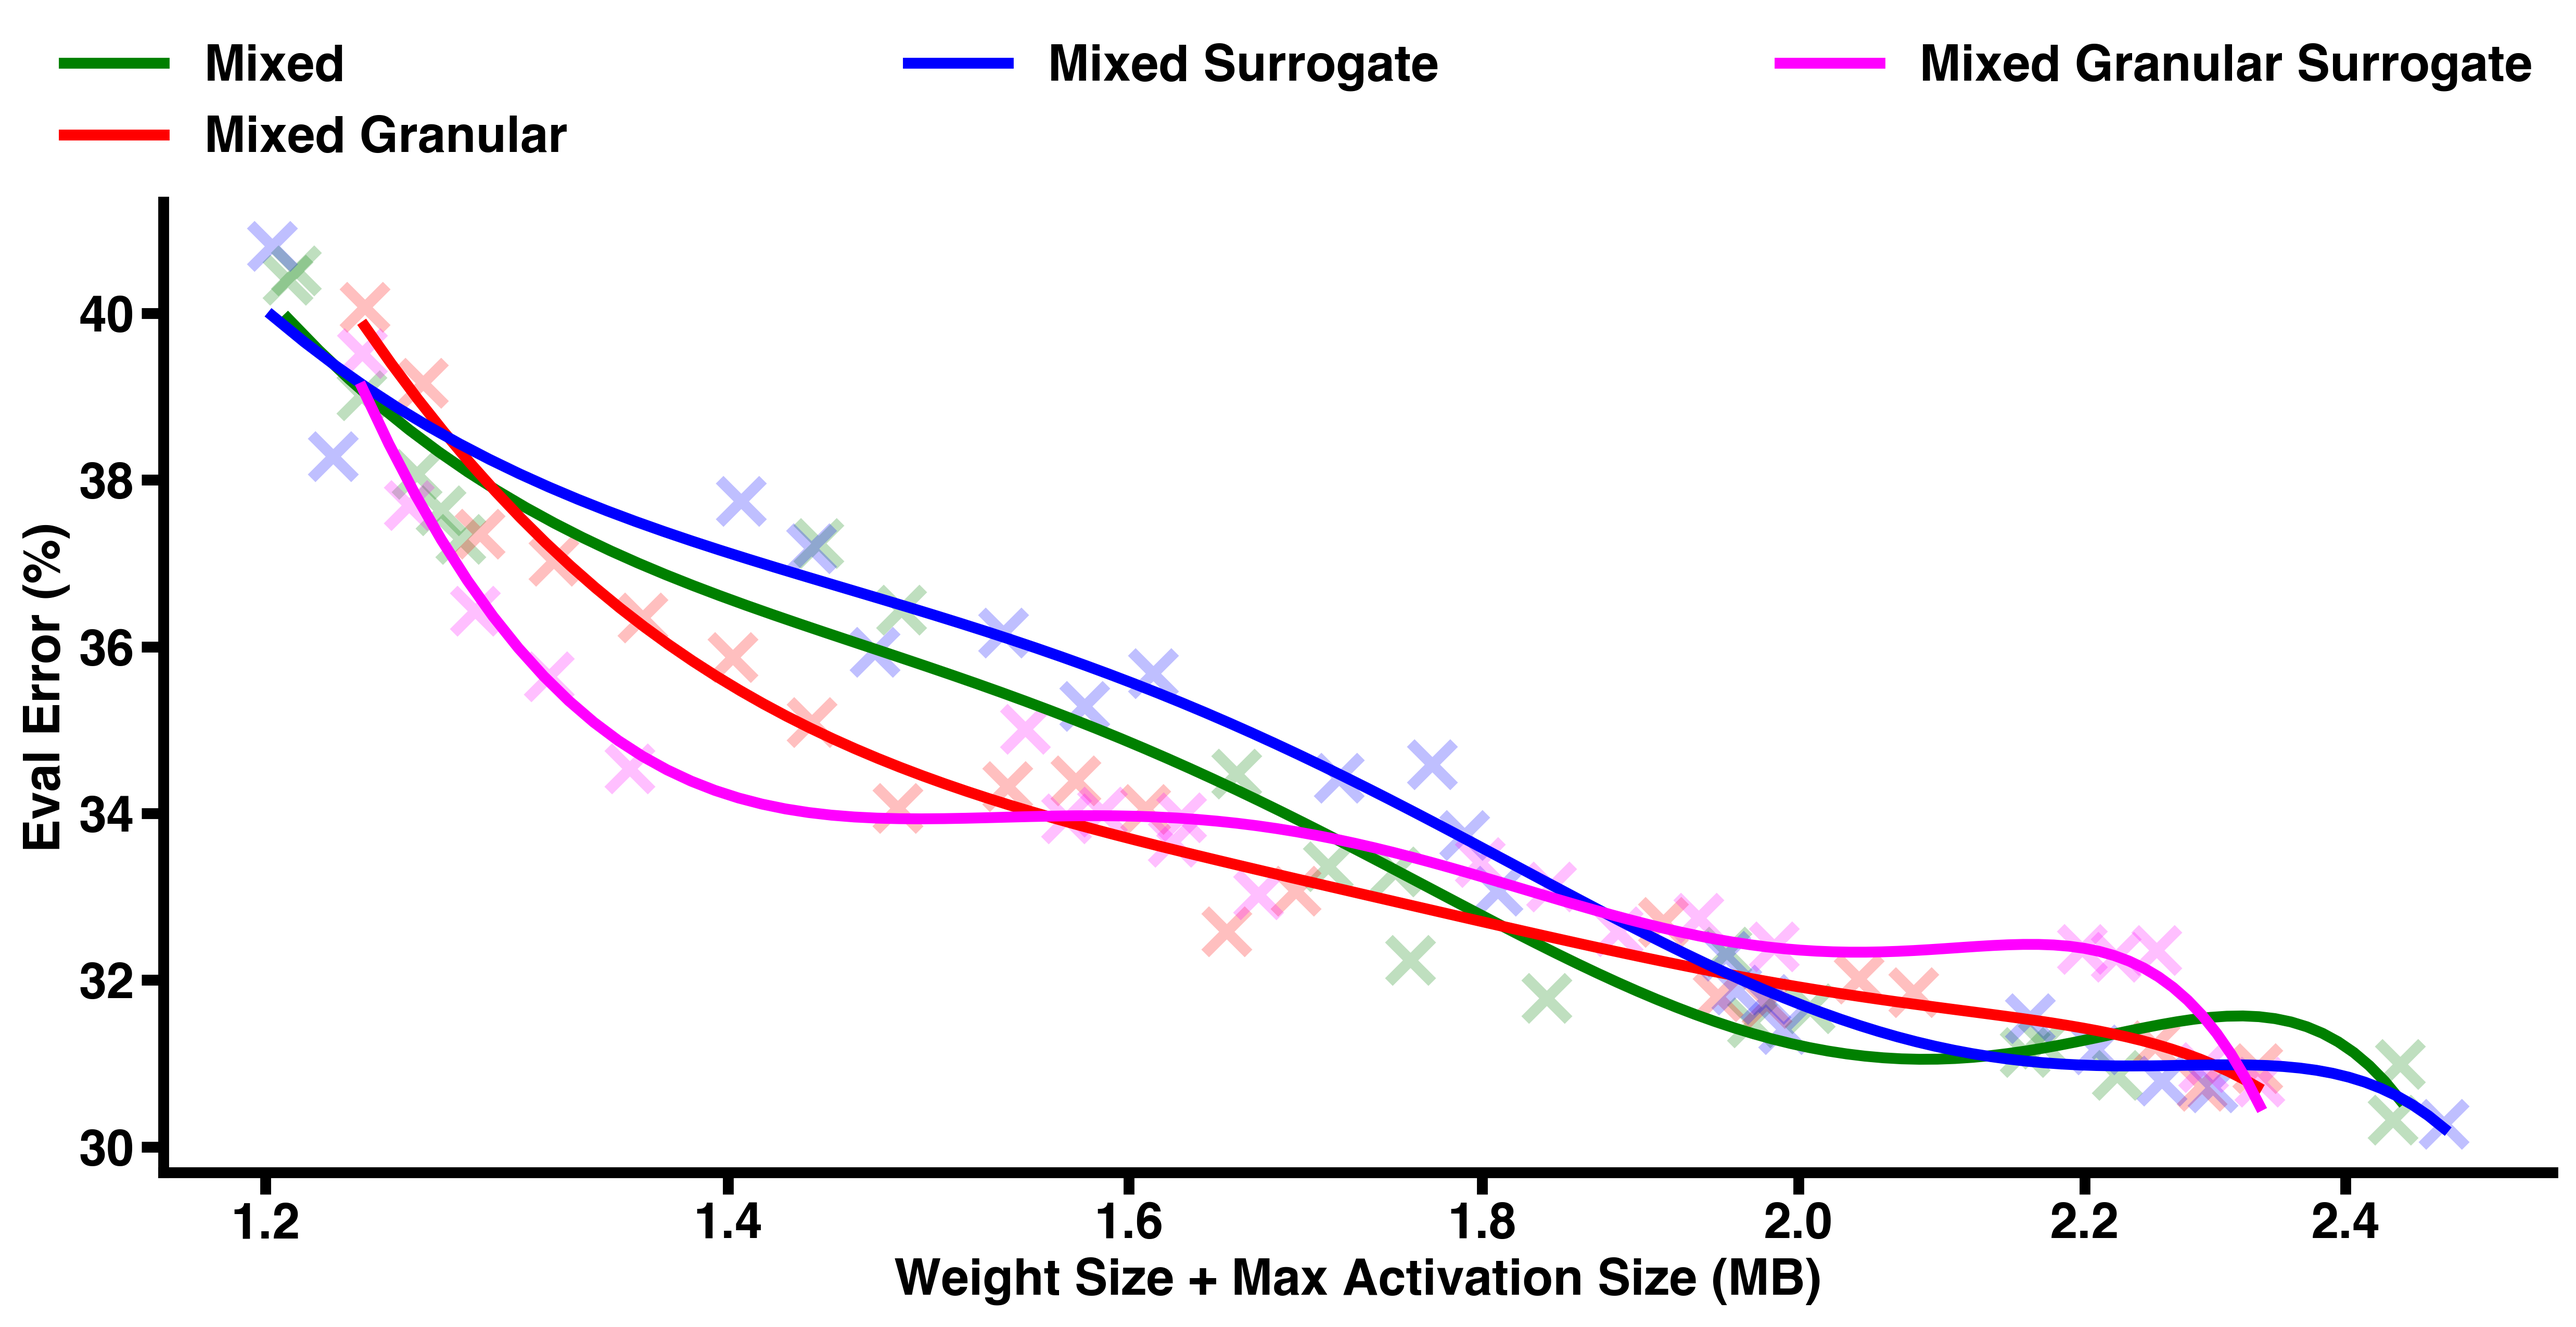
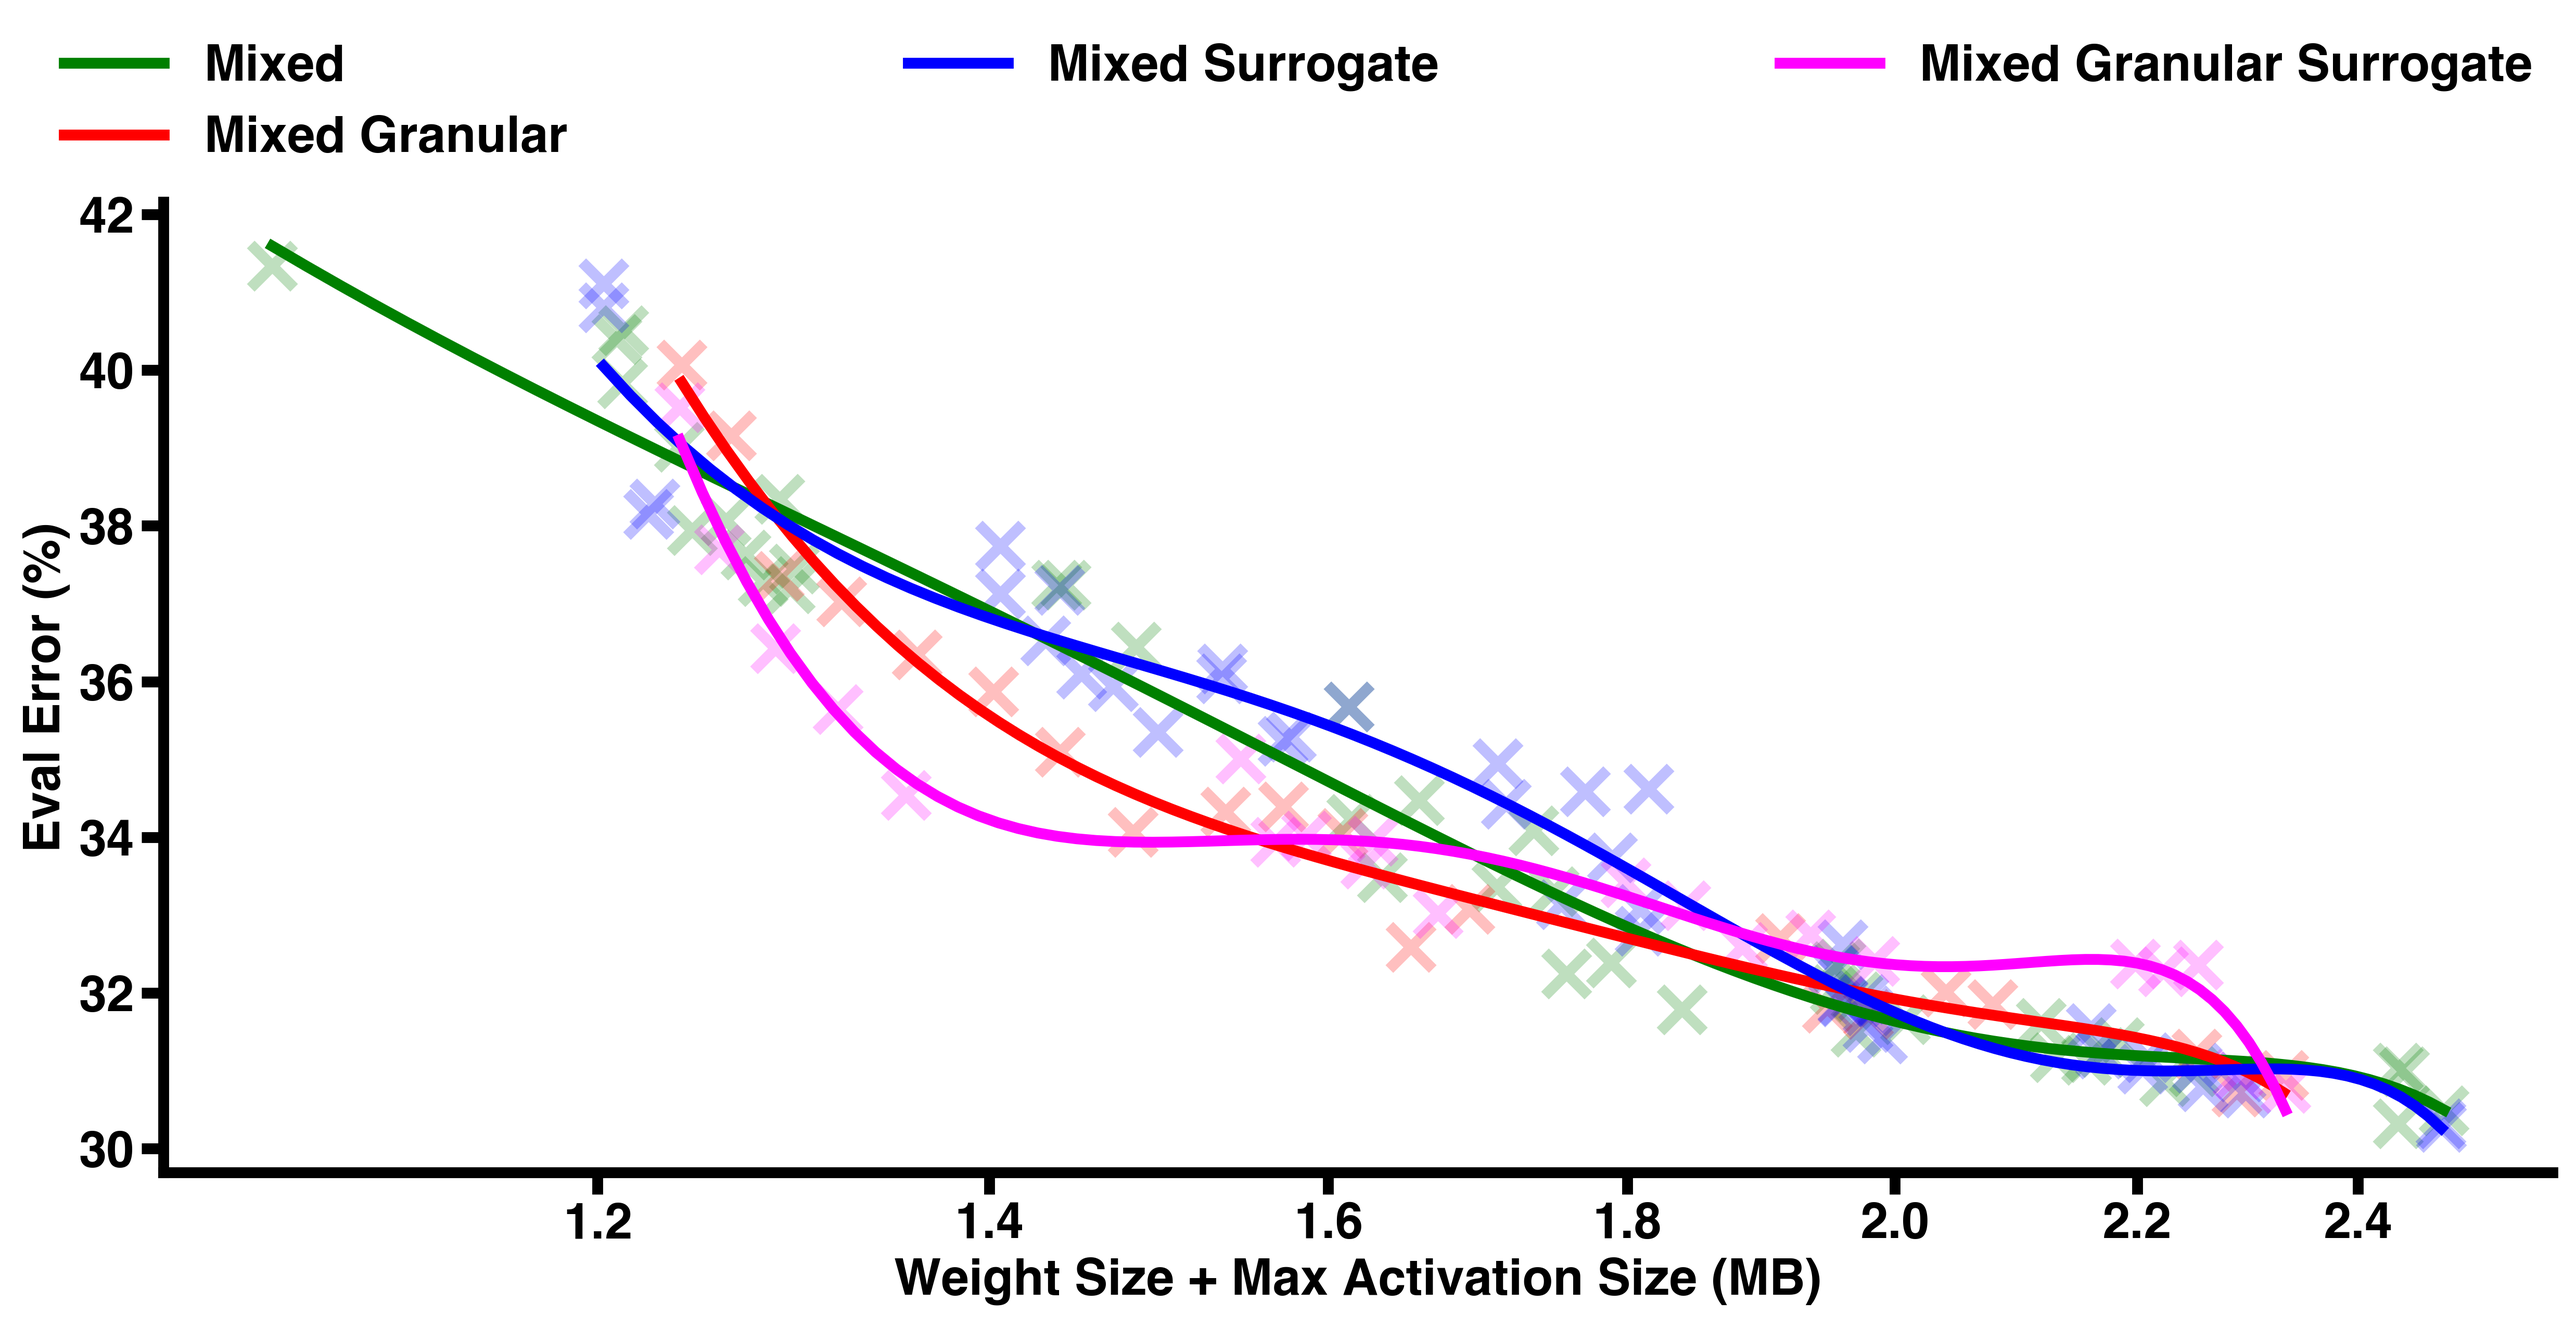
normal -m mbnet bigger search sweep

diff --git a/examples/efficientnet/visualization.py b/examples/efficientnet/visualization.py
@@ -449,13 +449,23 @@ def plot_comparison(name):
           label='SqueezeNext (Ours)', ms=20, markeredgewidth=5,
           linewidth=5)
 
-  # mobilenet
-  ax.plot(np.array([2.9314647829, 3.0517024534, 3.1762102050000003,
-                    3.431919068, 3.9978448490000003, 5.404619385, 5.538372192]
-                   ) + 0.068224, [39.518229999999996, 37.695310000000006,
-                                  36.425779999999996, 34.53775999999999,
-                                  33.024089999999994, 30.957029999999996,
-                                  30.778000000000006], marker='x',
+  # mobilenet - gran sur
+  # ax.plot(np.array([2.9314647829, 3.0517024534, 3.1762102050000003,
+  #                   3.431919068, 3.9978448490000003, 5.404619385,5.538372192]
+  #                  ) + 0.068224, [39.518229999999996, 37.695310000000006,
+  #                                 36.425779999999996, 34.53775999999999,
+  #                                 33.024089999999994, 30.957029999999996,
+  #                                 30.778000000000006], marker='x',
+  #         label='MobileNetV2 (Ours)', ms=20, markeredgewidth=5,
+  #         linewidth=5)
+
+  # plain mixed mobilenet
+  ax.plot(np.array([2.7311000363, 3.0878244628, 3.1964763789, 4.237476197,
+                    4.433703125, 5.655306274]
+                   ) + 0.068224, [41.341139999999996, 37.939449999999994,
+                                  37.190749999999994, 32.242839999999994,
+                                  31.787109999999995, 30.322269999999996],
+          marker='x',
           label='MobileNetV2 (Ours)', ms=20, markeredgewidth=5,
           linewidth=5)
 

diff --git a/examples/mobilenetv2/visualization_sweeps.py b/examples/mobilenetv2/visualization_sweeps.py
@@ -140,6 +140,9 @@ ax.scatter(resnet_mixed_sur_gran[2], resnet_mixed_sur_gran[3],
 
 print(resnet_mixed_sur_gran[0])
 print(resnet_mixed_sur_gran[1])
+
+print(resnet_mixed[0])
+print(resnet_mixed[1])
 # plt.ylim(31, 38)
 ax.set_xscale('log')
 plt.xticks([3.0, 4.0, 5.0], [
